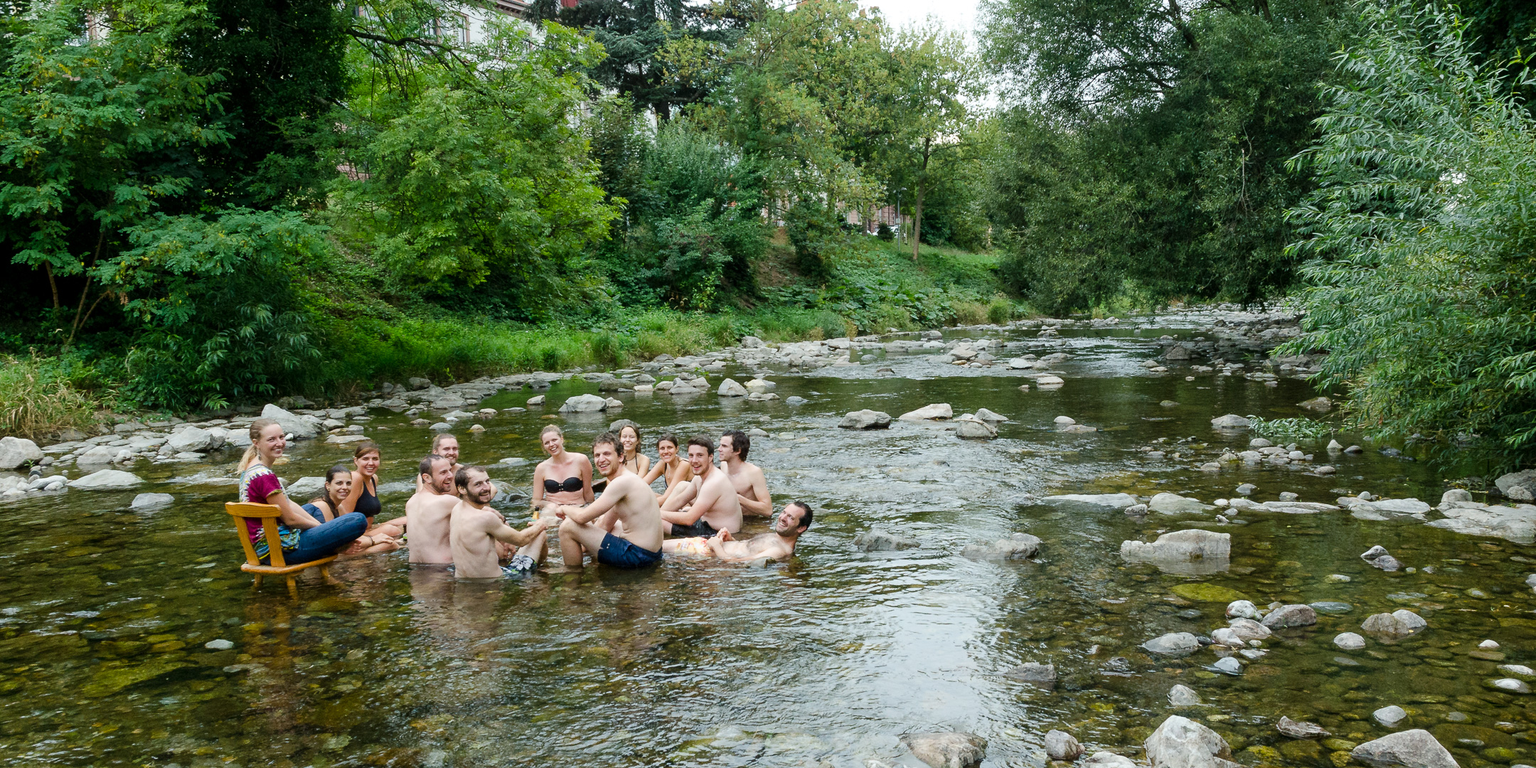
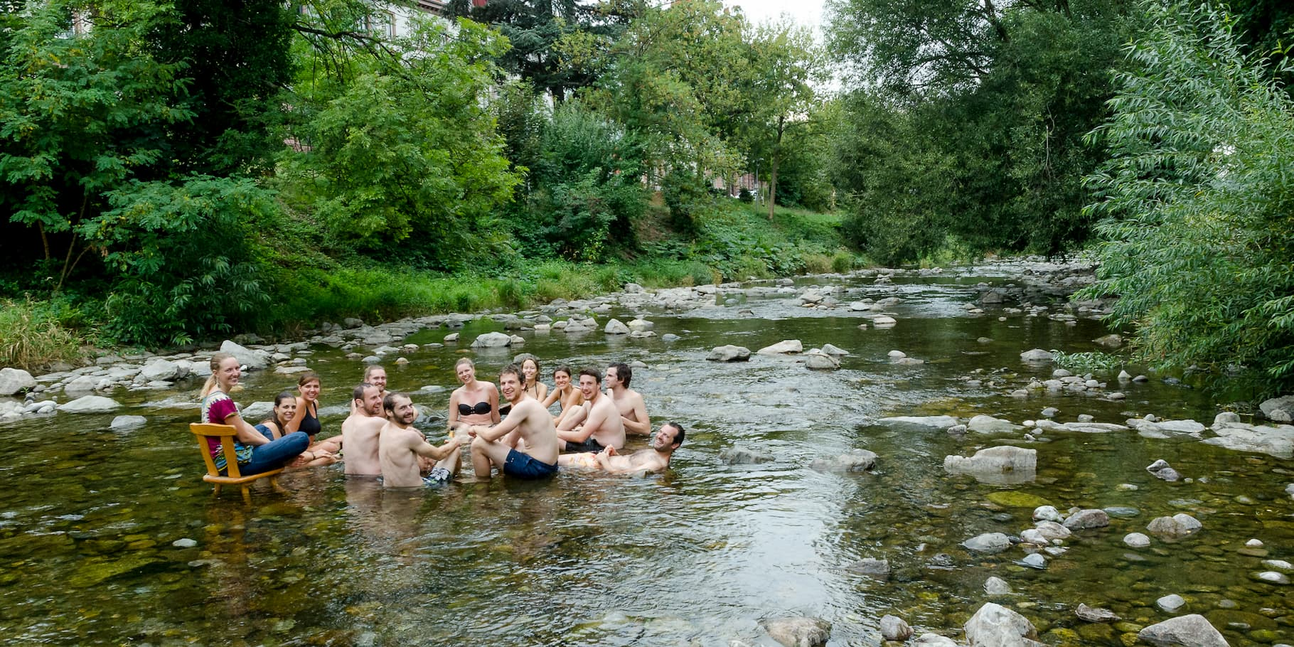
reduce image size by 80% using squoosh.app

diff --git a/wbcore/templates/wbcore/news.html b/wbcore/templates/wbcore/news.html
@@ -7,7 +7,7 @@
 		<div class="column">
 			<div class="ui basic segment">
 				<h1 class="ui header">News</h1>
-				<img class="ui fluid image" src="{% static 'images/news_header.png' %}">
+				<img class="ui fluid image" src="{% static 'images/news_header.jpg' %}">
 			</div>
 		</div>
 	</div>
